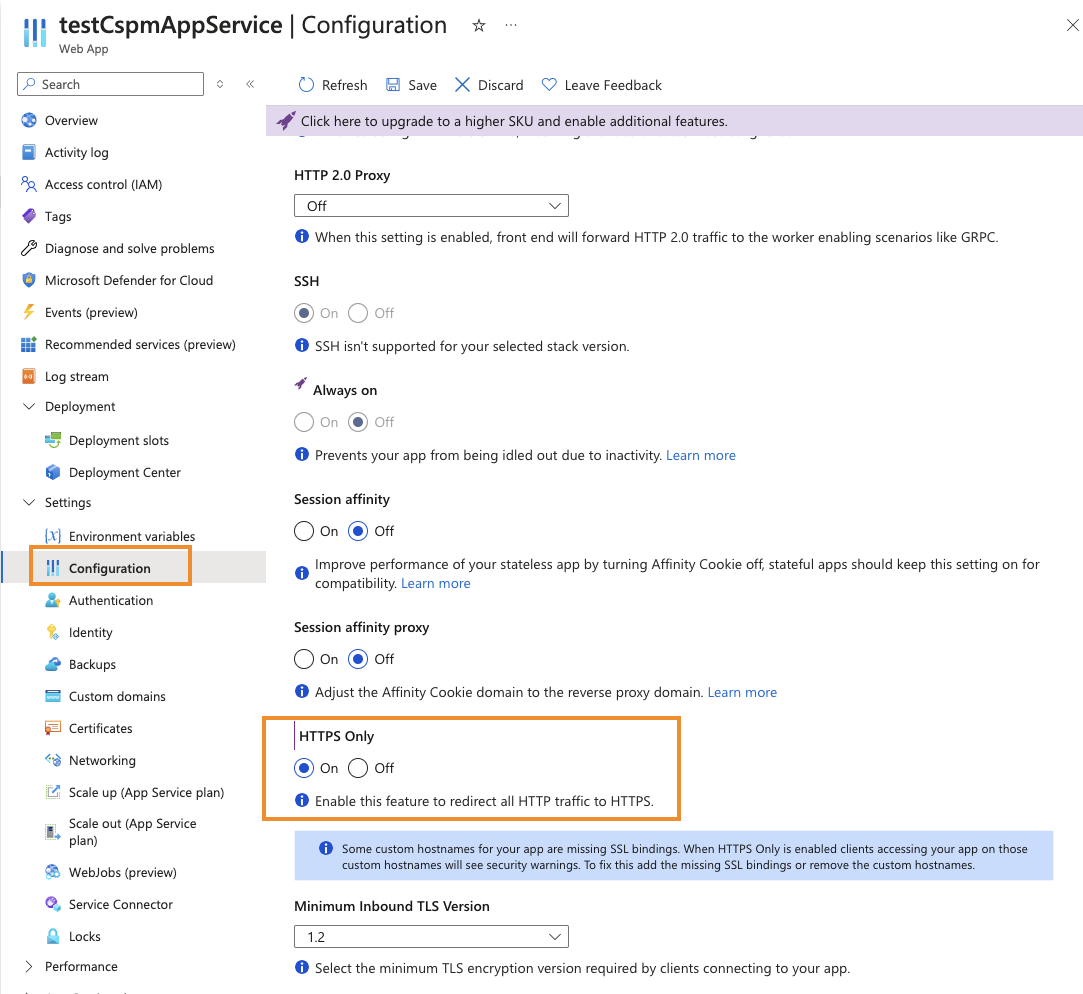
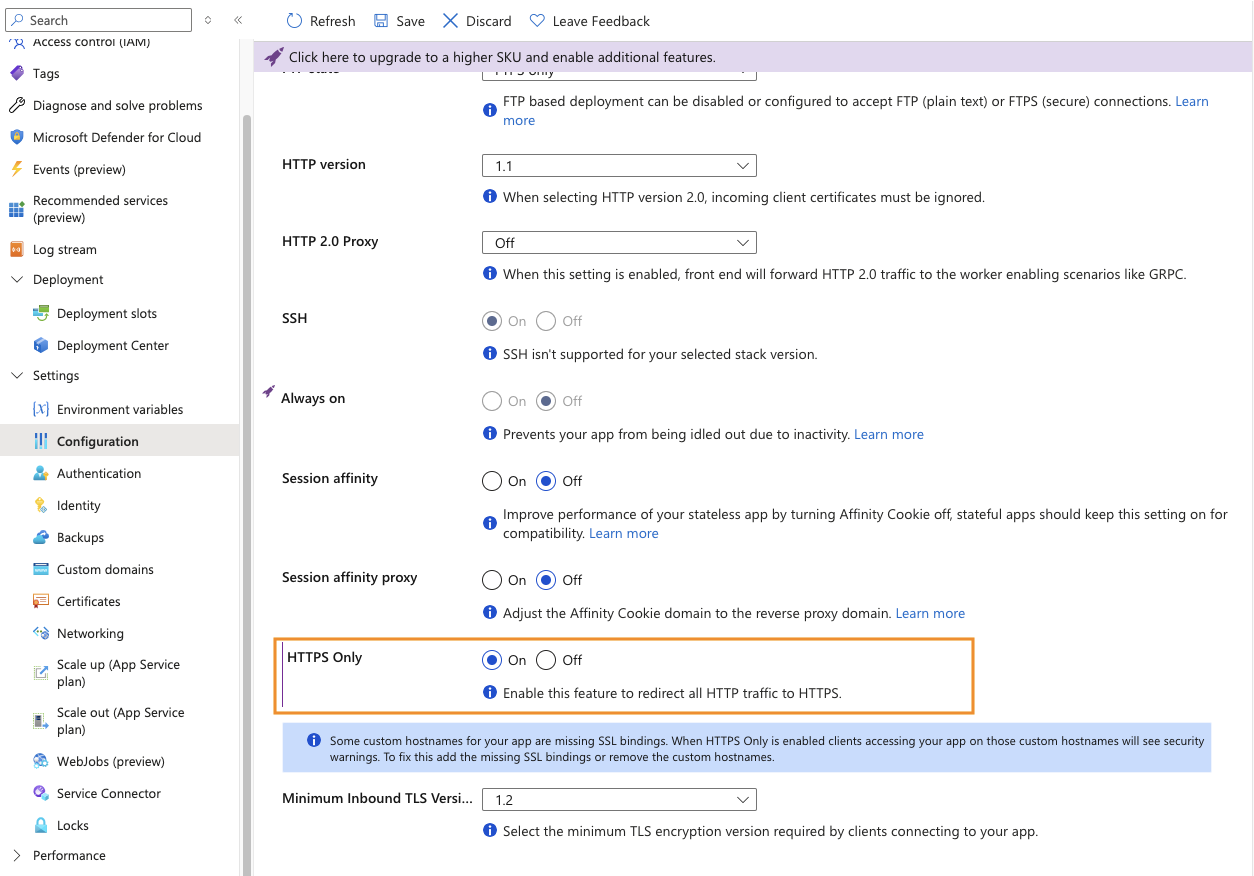
update images of https only enabled remediation

Changed region(s): [[0.0, 0.0, 1.0, 1.0]]

diff --git a/en/azure/appservice/https-only-enabled.md b/en/azure/appservice/https-only-enabled.md
@@ -18,8 +18,8 @@
 
 1. Log into the Microsoft Azure Management Console.
 2. Select the "Search resources, services, and docs" option at the top and search for App Services. </br> <img src="/resources/azure/appservice/https-only-enabled/step2.png"/>
-3. Select the "App Services" by clicking on the "Name" link to access the configuration changes.
-4. Scroll down the selected "App Services" left navigation panel and in "Settings" click on the "Configuration" option.
+3. Select the "App Services" by clicking on the "Name" link to access the configuration changes.</br> <img src="/resources/azure/appservice/https-only-enabled/step3.png"/>
+4. Scroll down the selected "App Services" left navigation panel and in "Settings" click on the "Configuration" option.</br> <img src="/resources/azure/appservice/https-only-enabled/step4.png"/>
 5. On the "Configuration" page select the General settings tab, scroll down to "HTTPs Only". If the "App Service" is not using "HTTPS only" then select "On". </br> <img src="/resources/azure/appservice/http-2.0-enabled/step5.png"/>
 6. Click Save.</br> <img src="/resources/azure/appservice/https-only-enabled/step6.png"/>
 7. Wait for the confirmation box, then click "Continue".</br> <img src="/resources/azure/appservice/https-only-enabled/step7.png"/>
